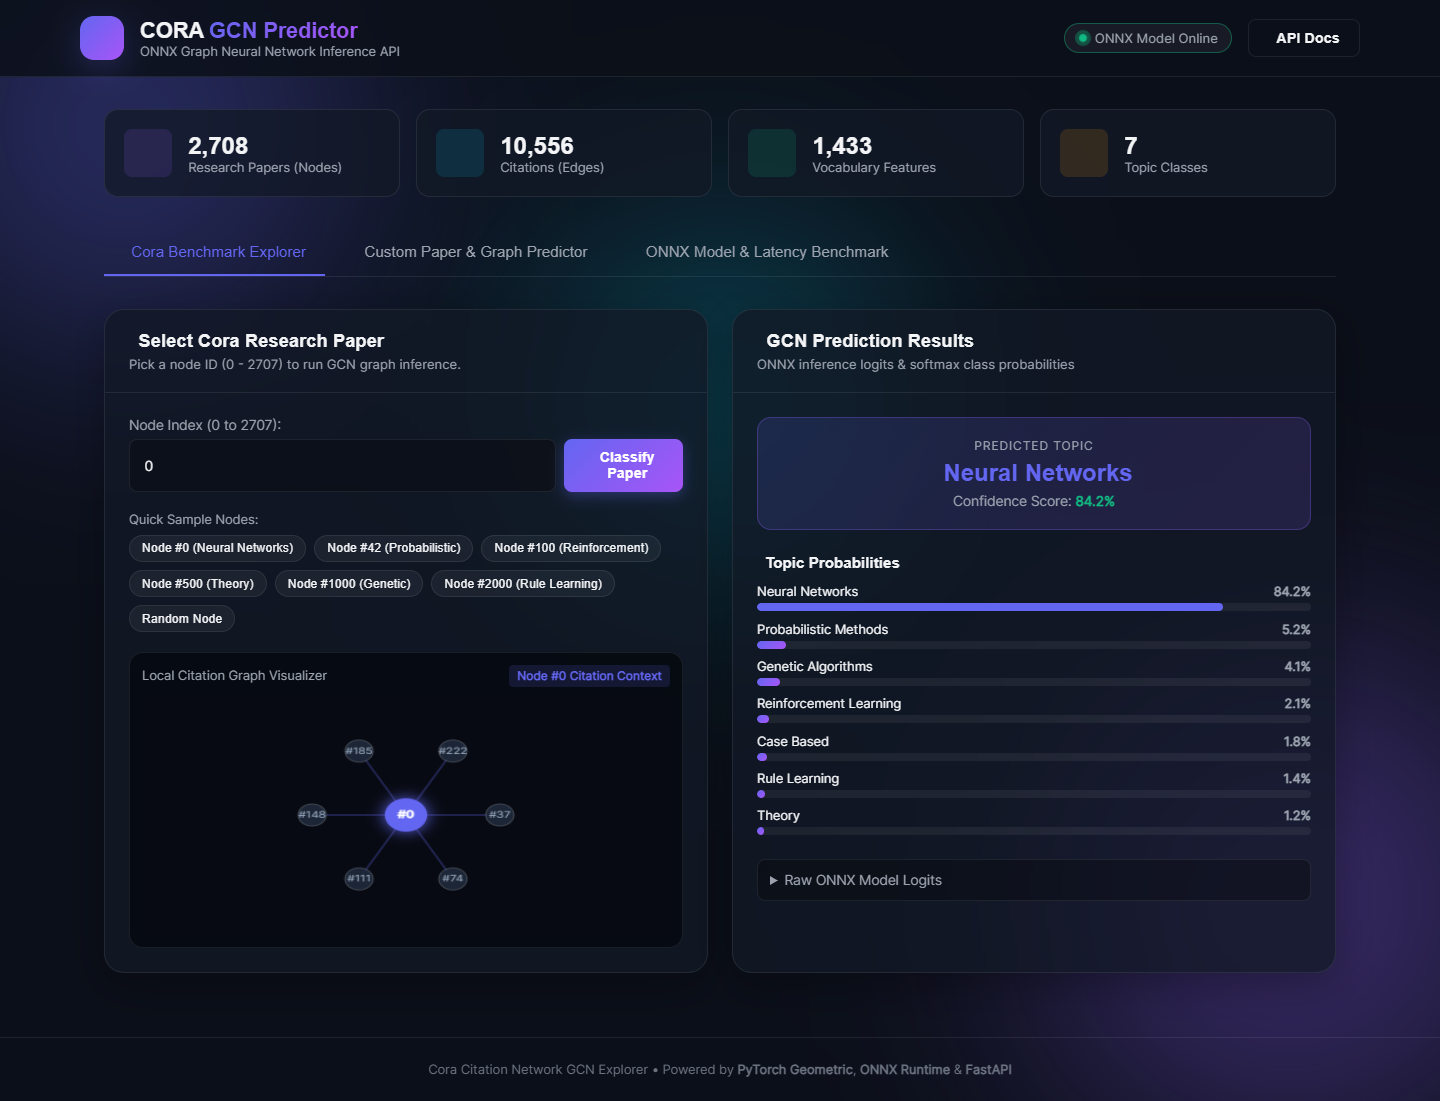
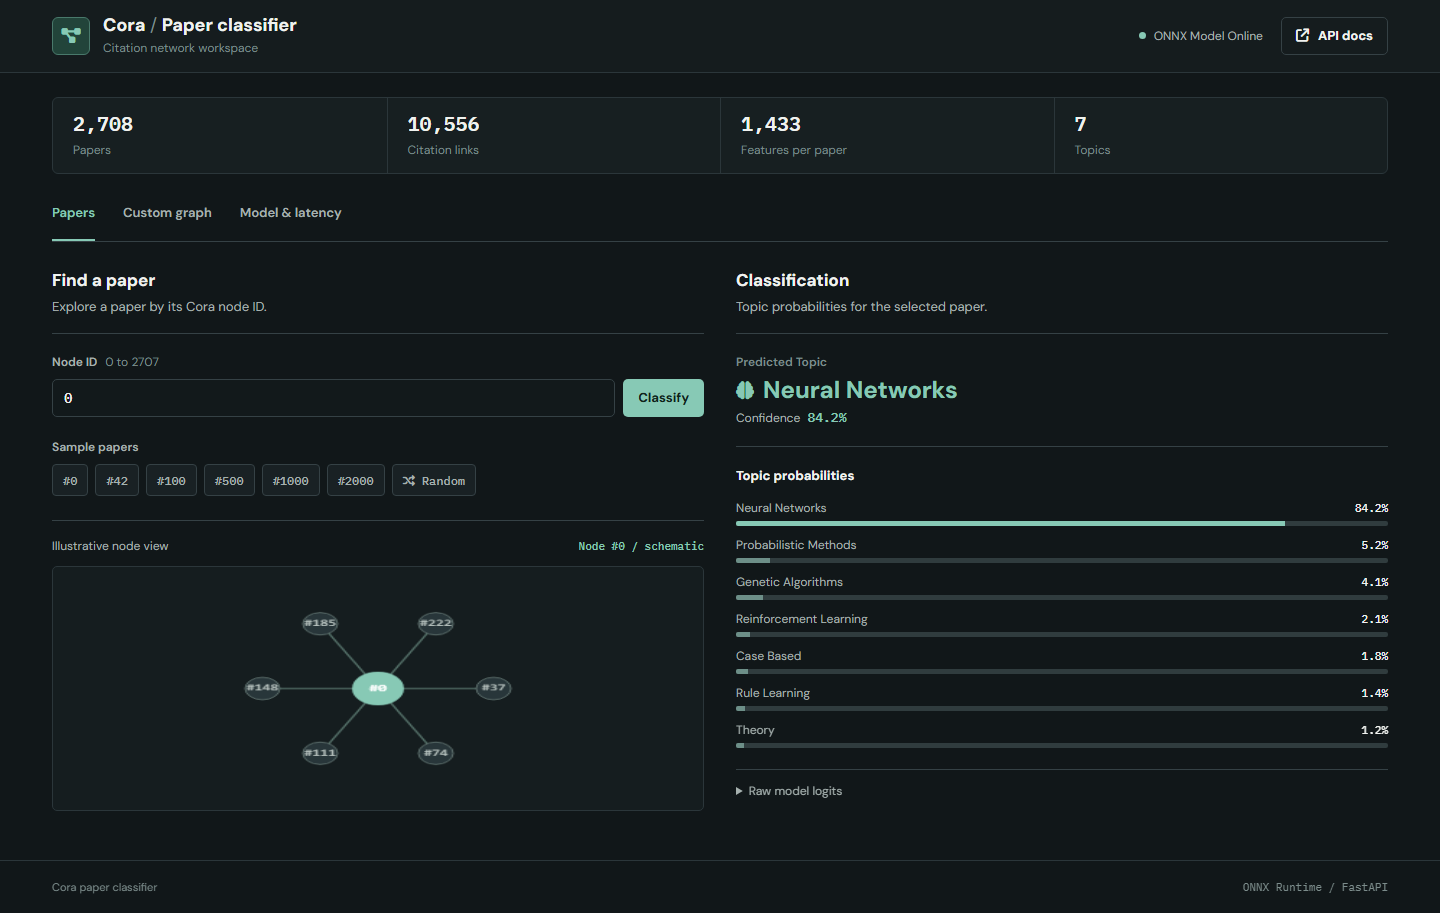
Update README and screenshots for improved clarity and accuracy

diff --git a/README.md b/README.md
@@ -25,23 +25,25 @@ Supported topic classes:
 
 ## UI Screenshots
 
+These screenshots show the current interface with sample API responses for display. The shown confidence values are illustrative, not measured model results.
+
 ### Papers
 
 Select any Cora node index from 0 to 2707 and run GCN inference. The UI shows the predicted topic, confidence score, class probabilities, raw logits, and an illustrative node diagram.
 
-![Cora Benchmark Explorer](docs/screenshots/cora-explorer.png)
+![Cora papers view](docs/screenshots/cora-explorer.png)
 
 ### Custom Graph
 
 Generate or edit a custom citation graph payload, then send it to the API through `POST /predict`.
 
-![Custom Graph Predictor](docs/screenshots/custom-graph-predictor.png)
+![Custom graph view](docs/screenshots/custom-graph-predictor.png)
 
 ### Model and Latency
 
 View ONNX input/output metadata and run a small latency benchmark against the prediction endpoint.
 
-![ONNX Model Benchmark](docs/screenshots/model-benchmark.png)
+![Model and latency view](docs/screenshots/model-benchmark.png)
 
 ## Features
 
